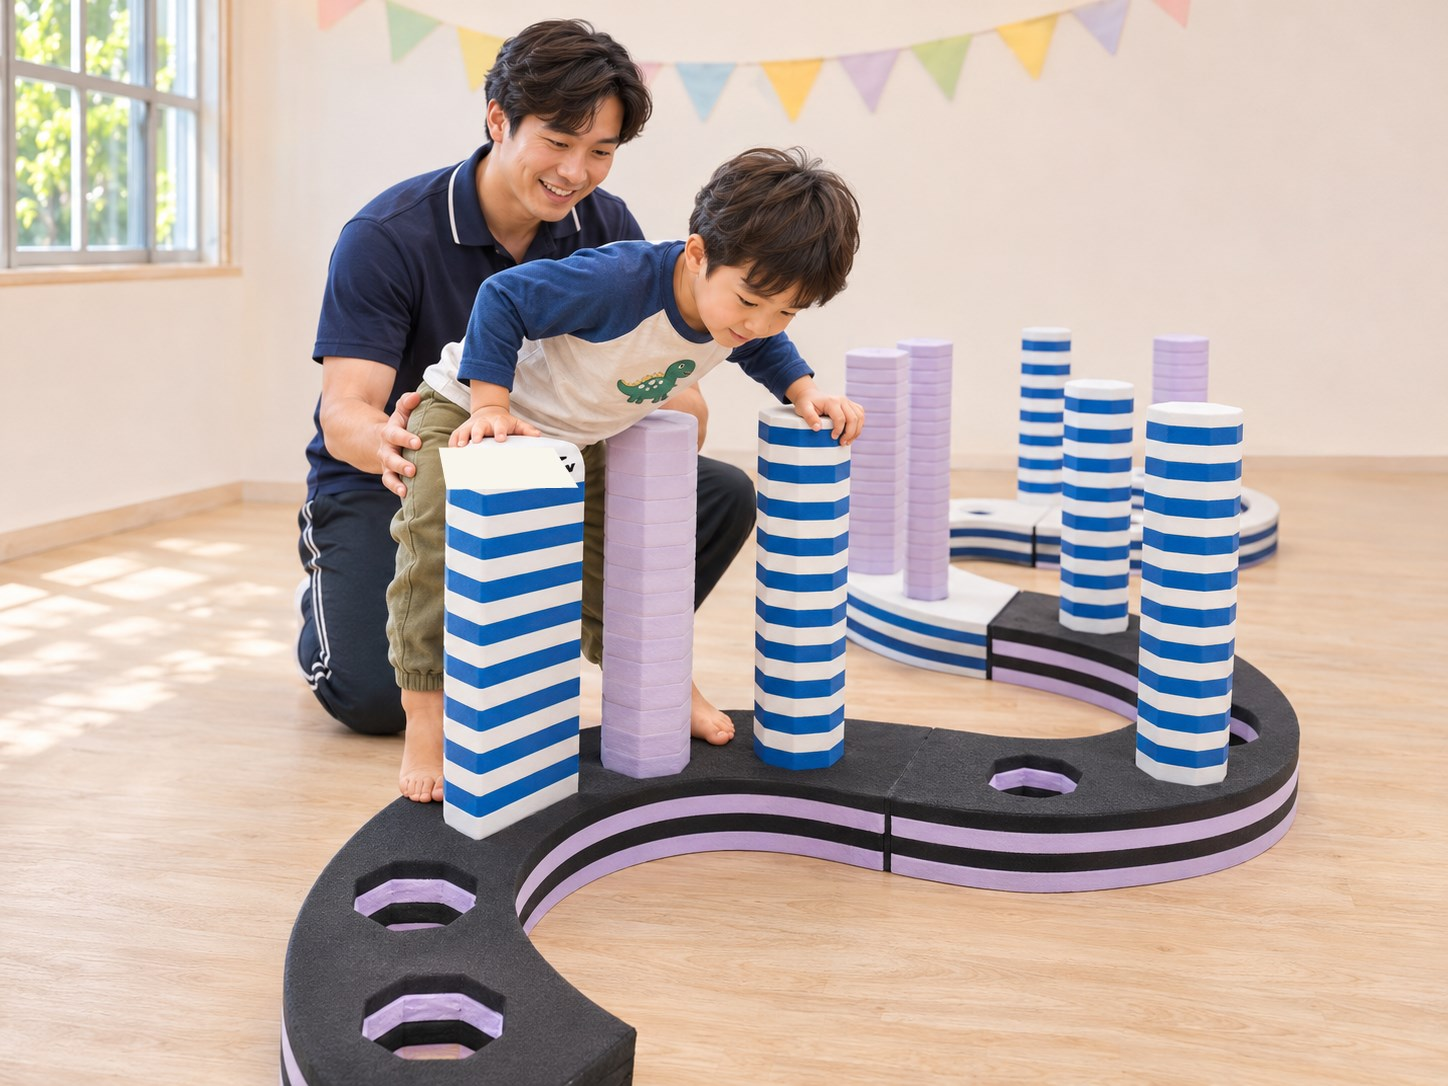
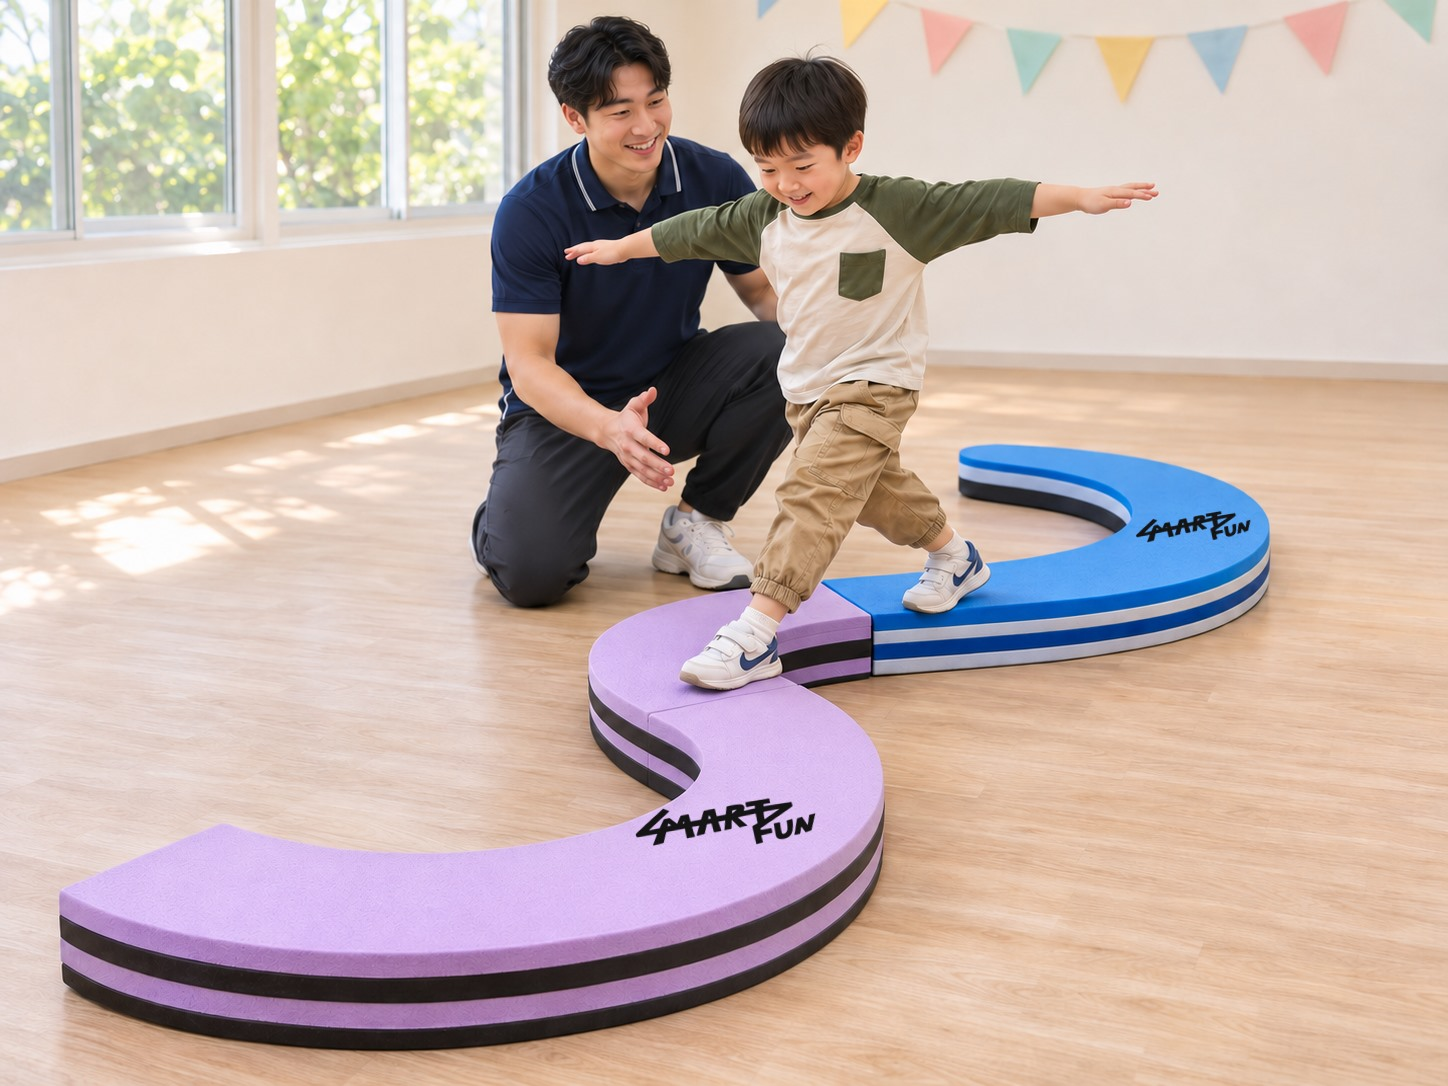
Replace posts play photos with branded versions

diff --git a/assets/plays.js b/assets/plays.js
@@ -37,7 +37,7 @@ const PLAYS = {
       steps: ["兩片拱片平放，接成 S 型。", "孩子張開雙手當翅膀，沿著拱片上面走。", "走到底跳下來，雙腳落地。"],
       safety: "跳下時膝蓋彎彎；前面的人走到一半，下一位才出發。",
       easier: "牽著老師的手走。", harder: "倒退走，或頭上頂沙包。" },
-    { name: "繞柱子", photo: "rock/real-2-posts-alt-2.jpg", photos: ["rock/real-2-posts-alt-2.jpg", "rock/real-2-posts-alt-1.jpg"], pos: "center 55%", type: "排隊", age: ["小幼", "中大"], limit: [], mode: "posts",
+    { name: "繞柱子", photo: "rock/real-2-posts-alt-1.jpg", photos: ["rock/real-2-posts-alt-1.jpg", "rock/real-2-posts-alt-2.jpg"], pos: "center 55%", type: "排隊", age: ["小幼", "中大"], limit: [], mode: "posts",
       skills: ["敏捷", "方向變換"], props: [],
       intro: "柱子插在拱片上當障礙物，孩子繞著柱子走 S 型。",
       steps: ["兩片拱片平放，四根六角柱插上去。", "孩子依序繞過每根柱子，不能碰到。", "繞完回到起點，換下一位。"],
